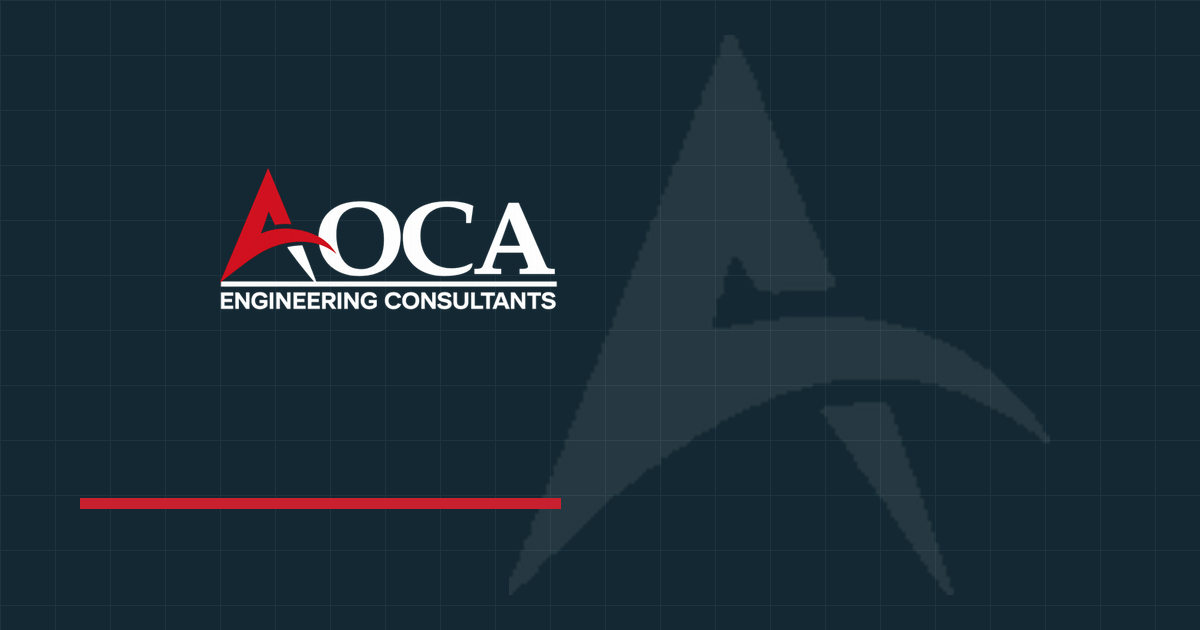
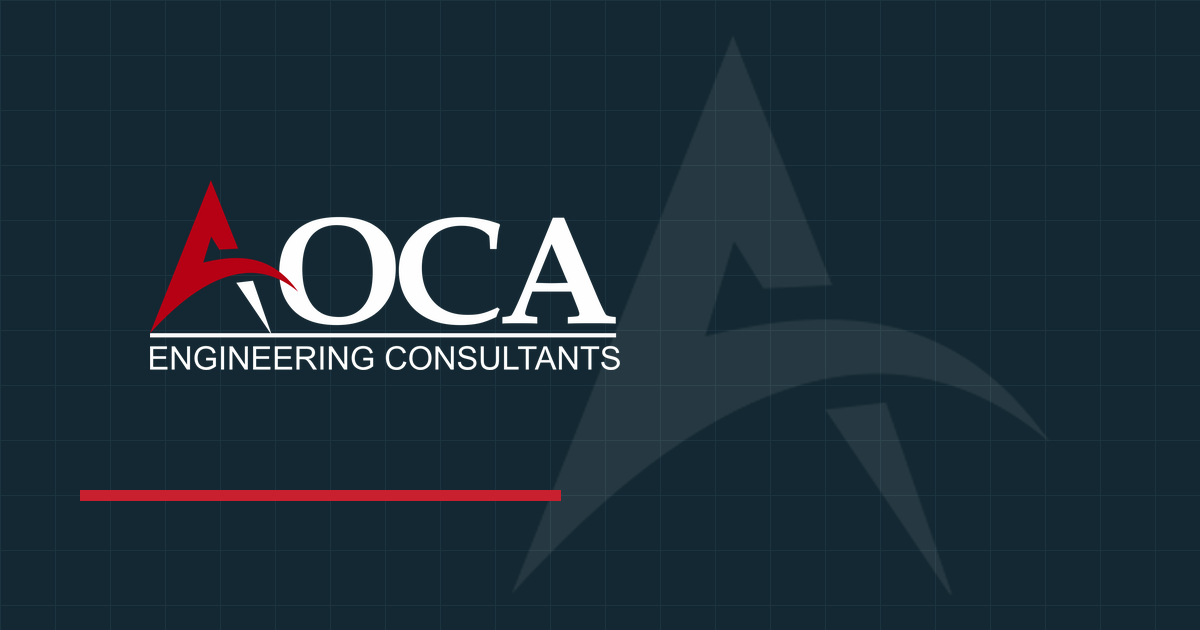
Implement Ciara's Update Notes 16-09-26 + hidden Terms of Business page
- All A marks, nav/footer logo, favicon and og image rebuilt from the
  official artwork in the shared "AOCA Logo" folder (no more pixelation
  or white outline); navbar logo keeps aspect when space is tight
- PCLA testimonial logo enlarged (tall-logo variant)
- Consulting Engineers: photos beside Remediation & Reinstatement and
  Surveys & Mapping sections
- History: 2024 rewritten (Old Bank of Ireland Tuam restoration); 2025
  split into awards entry + "A new chapter" (Philip steps in as MD);
  newspaper clipping moved from 2006 to 2017
- Projects dropdown fixed: grid now follows ?sector= URL changes, so a
  second pick from the navbar dropdown re-filters (useSearchParams +
  Suspense)
- Hidden /terms-of-business scaffold: unlisted, noindexed, awaiting the
  client's terms document (never supplied — confirmed by searching the
  whole SharePoint share)
- launch.json: autoPort for the dev server

Changed region(s): [[0.1233, 0.2714, 0.5242, 0.6032], [0.0617, 0.754, 0.4933, 0.8143]]

diff --git a/lib/site.ts b/lib/site.ts
@@ -136,7 +136,6 @@ export const timeline = [
     title: "A permanent home",
     text: "The practice moves to its current head office at Lismard House on the Timahoe Road, Portlaoise.",
     image: "/images/office-building.jpg",
-    clipping: "/images/aoca-newspaper.jpg",
   },
   {
     year: "2014",
@@ -150,6 +149,7 @@ export const timeline = [
     // [PLACEHOLDER] year to be confirmed by Philip (Ciara, Sept 2026 notes)
     text: "AOCA rebranded to create a more inclusive identity that reflected the people and values behind the business. The new name represented the company's growth from a small regional consultancy into a national and international engineering practice.",
     image: "/images/2026-08-aoca-engineering-portlaoise-dbp-01-03-17-1-of-3-003.jpg",
+    clipping: "/images/aoca-newspaper.jpg",
   },
   {
     year: "2016–2023",
@@ -160,14 +160,20 @@ export const timeline = [
   {
     year: "2024",
     title: "Recognised as Best in Class",
-    text: "Shortlisted at the Irish Building & Design Awards, and appointed Design Lead and Project Manager on a £9m fire safety and cladding remediation project in the UK. Three offices now serve Ireland, the UK and Europe.",
+    text: "Shortlisted at the Irish Building & Design Awards, and appointed Design Lead and Project Manager on the restoration of the historic Old Bank of Ireland Building in Tuam — converting it into modern offices for the Department of Social Protection.",
     image: "/images/ibda-finalist-2024.png",
   },
   {
     year: "2025",
-    title: "A new chapter",
-    text: "The Arklow Wastewater Treatment Plant is recognised with prestigious industry awards, Fire Safety Consultants launches in partnership with OCF — and founder Aidan O'Connell hands the reins to a new generation of leadership.",
+    title: "Recognised with prestigious industry awards",
+    text: "The Arklow Wastewater Treatment Plant is recognised with prestigious industry awards.",
     image: "/images/2025-09-arklow_case_study_featured_ojg6cb.webp",
+  },
+  {
+    year: "2025",
+    title: "A new chapter",
+    text: "After nearly three decades, founder Aidan O'Connell hands the reins to a new generation of leadership as Philip O'Connell steps in as Managing Director.",
+    image: "/images/2025-11-153a3552.jpg",
   },
   {
     year: "Today",
@@ -505,6 +511,7 @@ const builtInServices: Service[] = [
       {
         heading: "Remediation & Reinstatement",
         body: "Our team has extensive experience assessing and remediating damaged or defective buildings, including pyrite-affected homes, fire-damaged structures, flood-impacted properties and subsidence cases. We deliver technically sound, site-specific solutions informed by decades of hands-on engineering practice and knowledge of local conditions.",
+        image: "/images/2026-09-pyrite-infill.jpg",
       },
       {
         heading: "Construction Latent Defect Remediation",
@@ -521,6 +528,7 @@ const builtInServices: Service[] = [
       {
         heading: "Surveys & Mapping",
         body: "We provide land surveying, mapping, setting-out and boundary services to support planning, design and construction activities.",
+        image: "/images/2026-05-geo.jpg",
       },
       {
         heading: "Project Supervisor Design Process (PSDP)",
@@ -1751,6 +1759,7 @@ export const testimonials = [
     role: "Director",
     company: "Property Claims Loss Assessors",
     logo: "/images/2026-06-pcla.png",
+    logoTall: true,
   },
   {
     quote:

diff --git a/app/terms-of-business/page.tsx b/app/terms-of-business/page.tsx
@@ -1,0 +1,55 @@
+import type { Metadata } from "next";
+import { site } from "@/lib/site";
+import Reveal from "@/components/Reveal";
+
+/**
+ * Hidden Terms of Business page (client request, Sept 2026).
+ * Reachable only by direct link: not in the nav, footer, or sitemap,
+ * and noindexed so search engines never list it.
+ *
+ * [PLACEHOLDER] Awaiting the Terms of Business document from AOCA —
+ * replace the sections below with the real terms when Ciara sends them.
+ */
+export const metadata: Metadata = {
+  title: "Terms of Business",
+  robots: { index: false, follow: false },
+};
+
+export default function TermsOfBusinessPage() {
+  return (
+    <>
+      <section className="blueprint bg-navy-950 pb-16 pt-40">
+        <div className="container-site">
+          <p className="eyebrow">{site.legalName}</p>
+          <h1 className="mt-4 max-w-3xl text-4xl font-semibold text-white sm:text-5xl">
+            Terms of Business
+          </h1>
+          <div className="mt-6 h-1 w-24 bg-brand" />
+        </div>
+      </section>
+
+      <section className="section bg-white">
+        <div className="container-site max-w-3xl">
+          <Reveal>
+            <p className="text-lg leading-relaxed text-navy-700">
+              These terms of business set out the basis on which{" "}
+              {site.legalName.replace(/\.$/, "")} (&ldquo;AOCA&rdquo;) provides
+              professional engineering services to its clients.
+            </p>
+            <div className="mt-10 border border-dashed border-navy-200 bg-navy-50/50 p-8 text-navy-600">
+              <p className="font-heading text-sm font-semibold uppercase tracking-wider text-navy-900">
+                Content pending
+              </p>
+              <p className="mt-3 text-sm leading-relaxed">
+                The full Terms of Business will appear here once supplied by
+                AOCA. This page is unlisted: it does not appear in the site
+                navigation or search engines, and is reachable only by this
+                direct link.
+              </p>
+            </div>
+          </Reveal>
+        </div>
+      </section>
+    </>
+  );
+}

diff --git a/components/ProjectsExplorer.tsx b/components/ProjectsExplorer.tsx
@@ -1,6 +1,7 @@
 "use client";
 
 import { useEffect, useState } from "react";
+import { useSearchParams } from "next/navigation";
 import Link from "next/link";
 import Image from "next/image";
 import clsx from "clsx";
@@ -8,7 +9,7 @@ import { motion } from "framer-motion";
 import { shortLocation } from "@/lib/site";
 import type { Project, Sector } from "@/lib/site";
 
-/** Filterable project grid; honours ?sector= in the URL on first load. */
+/** Filterable project grid; follows ?sector= in the URL (navbar dropdown). */
 export default function ProjectsExplorer({
   projects,
   sectors,
@@ -17,11 +18,18 @@ export default function ProjectsExplorer({
   sectors: Sector[];
 }) {
   const [active, setActive] = useState<string>("all");
+  const searchParams = useSearchParams();
+  const sectorParam = searchParams.get("sector");
 
+  // Track the URL param so picking a second sector from the navbar
+  // dropdown re-filters (the page does not remount on same-route nav).
   useEffect(() => {
-    const param = new URLSearchParams(window.location.search).get("sector");
-    if (param && sectors.some((s) => s.slug === param)) setActive(param);
-  }, [sectors]);
+    if (sectorParam && sectors.some((s) => s.slug === sectorParam)) {
+      setActive(sectorParam);
+    } else if (!sectorParam) {
+      setActive("all");
+    }
+  }, [sectorParam, sectors]);
 
   const shown =
     active === "all" ? projects : projects.filter((p) => p.sector === active);

diff --git a/app/projects/page.tsx b/app/projects/page.tsx
@@ -1,4 +1,5 @@
 import type { Metadata } from "next";
+import { Suspense } from "react";
 import { projects, sectors } from "@/lib/site";
 import Reveal from "@/components/Reveal";
 import PageHero from "@/components/PageHero";
@@ -26,7 +27,10 @@ export default function ProjectsPage() {
       <section className="section bg-white">
         <div className="container-site">
           <Reveal>
-            <ProjectsExplorer projects={projects} sectors={sectors} />
+            {/* Suspense: ProjectsExplorer reads useSearchParams */}
+            <Suspense>
+              <ProjectsExplorer projects={projects} sectors={sectors} />
+            </Suspense>
           </Reveal>
         </div>
       </section>

diff --git a/components/TestimonialCarousel.tsx b/components/TestimonialCarousel.tsx
@@ -10,6 +10,7 @@ type Testimonial = {
   role: string;
   company?: string;
   logo?: string;
+  logoTall?: boolean;
 };
 
 /** Auto-advancing testimonial carousel with manual controls. */
@@ -70,7 +71,7 @@ export default function TestimonialCarousel({
                 <img
                   src={t.logo}
                   alt={t.company ?? ""}
-                  className="mt-3 h-9 w-auto"
+                  className={t.logoTall ? "mt-3 h-16 w-auto" : "mt-3 h-9 w-auto"}
                   loading="lazy"
                 />
               )}

diff --git a/components/Navbar.tsx b/components/Navbar.tsx
@@ -177,12 +177,12 @@ export default function Navbar() {
           <Image
             src="/aoca-logo-nav.png"
             alt="AOCA"
-            width={438}
-            height={146}
+            width={1496}
+            height={494}
             priority
             unoptimized
             className={clsx(
-              "w-auto transition-all duration-300",
+              "w-auto object-contain object-left transition-all duration-300",
               solid ? "h-14 lg:h-[4.25rem]" : "h-20 lg:h-28"
             )}
           />

diff --git a/app/history/page.tsx b/app/history/page.tsx
@@ -35,7 +35,7 @@ export default function HistoryPage() {
             />
             <div className="space-y-16 md:space-y-24">
               {timeline.map((t, i) => (
-                <Reveal key={t.year}>
+                <Reveal key={`${t.year}-${t.title}`}>
                   <div
                     className={`relative grid items-center gap-8 md:grid-cols-2 md:gap-16 ${
                       i % 2 ? "md:text-left" : ""

diff --git a/PLACEHOLDERS.md b/PLACEHOLDERS.md
@@ -96,6 +96,25 @@ and the "AOCA Expertise — NEW" deck of August 2026.
   row + hours + socials only, per Ciara mock. Hero ghost A watermark
   removed from the homepage video (17 Sept, David).
 
+## Implemented from Ciara's "Update Notes 16-09-26" (22 Sept 2026)
+
+- All A marks + nav/footer logo + favicon + og image rebuilt from the
+  official artwork in the shared "AOCA Logo" folder — no more pixelation
+  or white outline. Hero-video watermark stays removed.
+- PCLA testimonial logo enlarged (squarish logos render taller now).
+- Consulting Engineers page: photos beside Remediation & Reinstatement
+  and Surveys & Mapping sections.
+- History per Ciara's red wording: 2024 → Old Bank of Ireland Tuam
+  restoration; 2025 split into "Recognised with prestigious industry
+  awards" (Arklow) + "A new chapter" (Philip steps in as MD, portrait
+  photo); Today text confirmed; newspaper clipping moved 2006 → 2017.
+- Projects nav dropdown bug FIXED (second sector pick now re-filters —
+  the grid follows ?sector= URL changes).
+- Hidden /terms-of-business page scaffolded: unlisted (no nav/footer/
+  sitemap links), noindex. **Waiting on the Terms of Business document
+  from the client — nothing was ever shared (searched the whole
+  SharePoint drop + all notes docs, 22 Sept).**
+
 ## Waiting on the client (chase list)
 
 | Item | Who | Notes |
@@ -109,6 +128,8 @@ and the "AOCA Expertise — NEW" deck of August 2026.
 | Logo wall accuracy | **Ciara** | Verify all 30 client logos are current versions |
 | Testimonial company names | Client | Aug 2026 notes ask for company under each testimonial — only Peter Mulvaney's (Property Claims Loss Assessors) is known; need companies for Jonathan Marais, Fiona Beirne, Stephen Nolan + others |
 | DNCF replacement logo | Client | DNCF logo removed from the logo wall per Aug 2026 notes — client to send the replacement logo mentioned |
+| Terms of Business content | Client | Hidden /terms-of-business page is scaffolded; no terms document was ever shared — need the actual terms text (and confirm link-only vs footer link) |
+| Testimonial logos (rest) | Client | Crown ok, PCLA enlarged; logos for the remaining testimonials never supplied |
 | Office phone numbers | Client | "Multiple numbers so not sure this is 100% correct" |
 | New insights articles ×6 | Client | FM Design for High Value Buildings; Designing for the Data Centre Industry; What is Condensation Risk Analysis; An update on Pyrite in Ireland; Structural Fire Engineering (list from slide 1 of the Aug 2026 deck). "A New Adventure – Fire Safety Consultants" written by us Aug 2026 (dated Jan 2026 per David) — needs client sign-off |
 | Building Surveying sign-off | Client | Copy now live from their deck but deck marks it "work in progress" |
